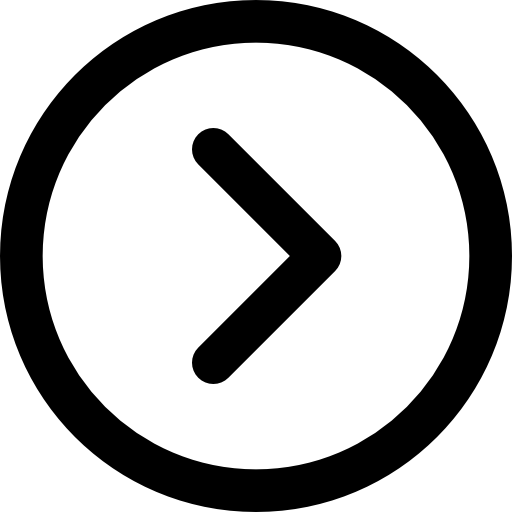
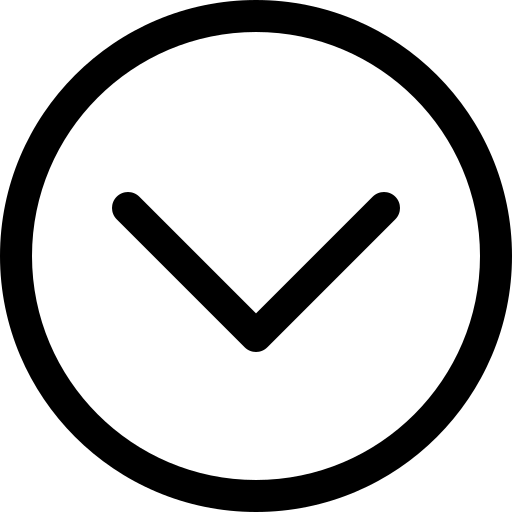
changement orientation flèche

Changed region(s): [[0.2188, 0.25, 0.7812, 0.75], [0.0625, 0.0625, 0.9375, 0.9375]]

diff --git a/index.html b/index.html
@@ -30,9 +30,10 @@
     <ul class="carousel-items">
         <li class="carousel-item">
             <div class="card">
-                
+
                 <img class="Image" src="assets/model.JPG" />
-                <h2 class="card-title"><a href="#trainingDay" class="buttoncarousel"><img src="assets/flèche.png"></a>Training Day: La meilleure façon de se préparer</h2>
+                <h2 class="card-title"><a href="#trainingDay" class="buttoncarousel"><img
+                            src="assets/flèche.png"></a>Training Day: La meilleure façon de se préparer</h2>
                 <div class="card-content">
                 </div>
             </div>
@@ -40,16 +41,18 @@
         <li class="carousel-item">
             <div class="card">
                 <img class="Image" src="assets/workimg.jpg" />
-                <h2 class="card-title"> <a href="#work" class="buttoncarousel"><img src="assets/flèche.png"></a>Work: Le starter pack du Wilder</h2>
+                <h2 class="card-title"> <a href="#work" class="buttoncarousel"><img src="assets/flèche.png"></a>Work: Le
+                    starter pack du Wilder</h2>
                 <div class="card-content">
-                    
+
                 </div>
             </div>
         </li>
         <li class="carousel-item">
             <div class="card">
                 <img class="Image" src="assets/crane.jpg" />
-                <h2 class="card-title"><a href="#stories" class="buttoncarousel"><img src="assets/flèche.png"></a>Coiffure Lifestyle et Esthétique by Jessy</h2>
+                <h2 class="card-title"><a href="#stories" class="buttoncarousel"><img
+                            src="assets/flèche.png"></a>Coiffure Lifestyle et Esthétique by Jessy</h2>
                 <div class="card-content">
                 </div>
             </div>
@@ -57,17 +60,18 @@
         <li class="carousel-item">
             <div class="card">
                 <img class="Image" src="assets/reveil.jpg" />
-                <h2 class="card-title"><a href="#morning" class="buttoncarousel"><img src="assets/flèche.png"></a>Morning routine Mounir</h2>
+                <h2 class="card-title"><a href="#morning" class="buttoncarousel"><img
+                            src="assets/flèche.png"></a>Morning routine Mounir</h2>
                 <div class="card-content">
                 </div>
             </div>
-        </li>       
+        </li>
     </ul>
 </section>
 
 
 
-  <details id="trainingDayDetails">
+<details id="trainingDayDetails">
 
     <summary id="trainingDay">
         <img class="firstdayimg" src="assets/model.jpg" alt="Image d'illustration d'article">

diff --git a/style.css b/style.css
@@ -1,4 +1,3 @@
-
 html,
 body {
     display: flex;
@@ -32,7 +31,7 @@ h1 {
     font-size: 24px;
     font-family: 'Bodoni Moda';
     min-width: 160px;
-    color: rgba(0,0,0,255);
+    color: rgba(0, 0, 0, 255);
     text-align: center;
     margin-right: 40px;
 
@@ -248,60 +247,68 @@ h3 {
         height: 70px;
         padding: 100px;
     }
+
     h3 {
-        font-size:30px ;
+        font-size: 30px;
     }
+
     p {
-        font-size:20px ;
+        font-size: 20px;
     }
-    .Image{
+
+    .Image {
         width: 500px;
         height: 300px;
         object-fit: cover;
     }
-    .card-title{
+
+    .card-title {
         font-size: 15px;
-        display:flex;
+        display: flex;
         align-items: center;
     }
-    }
-    .carousel-items {
-        display: flex;
-        overflow-x: scroll;
-        padding: 1rem 0;
-    }
-    .carousel-item {
-        margin-left: 1rem;
-    }
-    .carousel-item {
-        flex-grow: 1;
-        flex-shrink: 0;
-        flex-basis: 450px;
-        margin-left: 1rem;
-    }
-    .carousel-items {
-        display: flex;
-        overflow-x: scroll;
-        padding: 1rem 0;
-        scroll-snap-type: x mandatory;
-    }
-    
-    .carousel-item {
-        flex: 1 0 250px;
-        margin-left: 1rem;
-        scroll-snap-align: start;
-    }
-    ::-webkit-scrollbar-track {
-        background-color: #D5D2C8;
-    }
-    
-    ::-webkit-scrollbar {
-        height: 6px;
-        background-color: #D3D3D3;
-    }
-    
-    ::-webkit-scrollbar-thumb {
-        background-color: #3d4852;
-        border-radius: 3px;
-    }
-}   
+}
+
+.carousel-items {
+    display: flex;
+    overflow-x: scroll;
+    padding: 1rem 0;
+}
+
+.carousel-item {
+    margin-left: 1rem;
+}
+
+.carousel-item {
+    flex-grow: 1;
+    flex-shrink: 0;
+    flex-basis: 450px;
+    margin-left: 1rem;
+}
+
+.carousel-items {
+    display: flex;
+    overflow-x: scroll;
+    padding: 1rem 0;
+    scroll-snap-type: x mandatory;
+}
+
+.carousel-item {
+    flex: 1 0 250px;
+    margin-left: 1rem;
+    scroll-snap-align: start;
+}
+
+::-webkit-scrollbar-track {
+    background-color: #D5D2C8;
+}
+
+::-webkit-scrollbar {
+    height: 6px;
+    background-color: #D3D3D3;
+}
+
+::-webkit-scrollbar-thumb {
+    background-color: #3d4852;
+    border-radius: 3px;
+}
